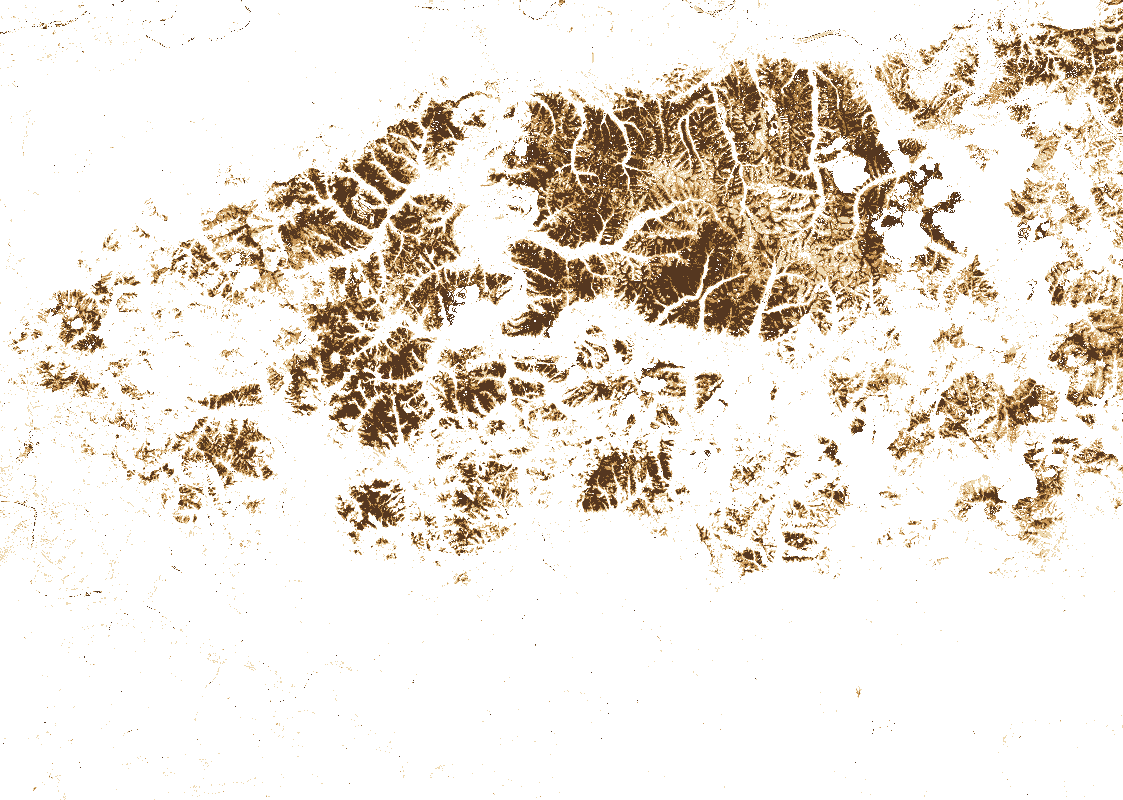
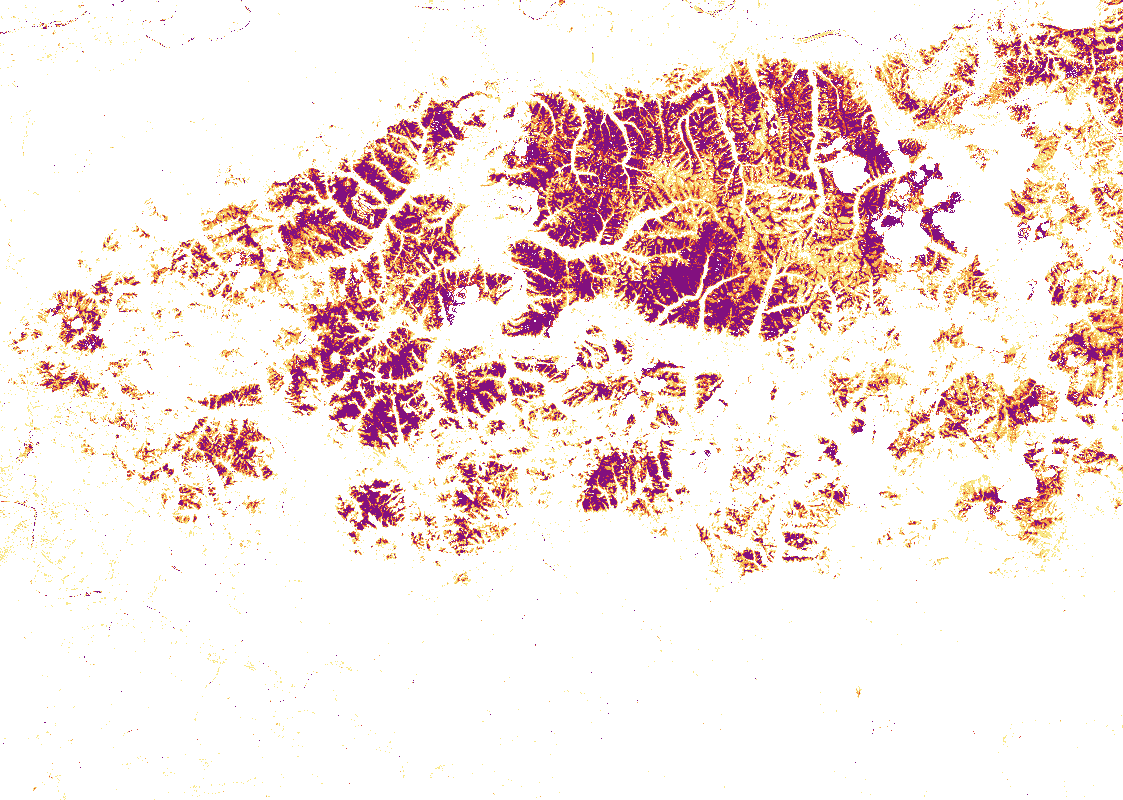
지도 오버레이 색을 원격탐사 관행 색상표로 교체

diff --git a/app/web/dashboard.js b/app/web/dashboard.js
@@ -8,7 +8,7 @@
   const SRC = { OBSERVED: "실측", MODEL: "계산", RULE: "규칙", ASSUMPTION: "가정", FORECAST: "예보" };
   const OV_LABEL = { dnbr: "피해등급", pre: "산불 전", post: "진화 직후", lst_before: "시공 전 온도", lst_after: "시공 후 온도", lst_diff: "전후 차이", flood_before: "정비 전 침수", flood_after: "정비 후 침수", flood_change: "전후 비교", none: "없음" };
   const PAIRS = [["pre", "post", "산불 전", "진화 직후"], ["lst_before", "lst_after", "시공 전", "시공 후"], ["flood_before", "flood_after", "정비 전", "정비 후"]];
-  const SEV_COLORS = ["#e9cf9c", "#c48a3e", "#8a5a1e", "#4a2a12"];
+  const SEV_COLORS = ["#f7e26b", "#f29e2e", "#d7301f", "#7a0177"];
   // 지표 장부의 항목 이름. 키는 JSON(재현용)에 남고 화면에는 한글만 적는다
   const KEY_LABEL = {
     burned_forest_ha: "피해 산림 면적", control_ha: "대조지 면적", recovery_ratio_latest: "최근 회복률", did_effect_ndvi: "이중차분 효과(NDVI)", ci95_median_diff: "95% 신뢰구간", mde_ndvi: "검출가능최소효과(NDVI)", valid_pct_min: "유효 화소 비율(최소)",

diff --git a/app/server/verify_fire.py b/app/server/verify_fire.py
@@ -87,7 +87,7 @@ def refl(bands: dict[str, np.ndarray], pb: str) -> dict[str, np.ndarray]:
 def severity_png(cls: np.ndarray, rgb: np.ndarray | None, path: Path) -> None:
     """피해등급을 반투명 PNG로 저장(지도 오버레이)."""
     from PIL import Image
-    pal = {1: (233, 207, 156, 200), 2: (196, 138, 62, 215), 3: (138, 90, 30, 230), 4: (74, 42, 18, 240)}   # 등고선 갈색 계열(지형도 문법)
+    pal = {1: (247, 226, 107, 205), 2: (242, 158, 46, 220), 3: (215, 48, 31, 230), 4: (122, 1, 119, 240)}   # dNBR 관행: 노랑, 주황, 빨강, 자주
     h, w = cls.shape
     img = np.zeros((h, w, 4), dtype="uint8")
     for k, c in pal.items():
@@ -183,7 +183,7 @@ def run(project: dict, progress=lambda done, total, msg: None) -> dict:
         },
         "severity": severity, "series": series, "scenes": scenes, "failed": failed,
         "overlays": {"dnbr": f"/api/projects/{p['id']}/overlay/dnbr.png", "pre": f"/api/projects/{p['id']}/overlay/pre.png", "post": f"/api/projects/{p['id']}/overlay/post.png", "bounds": bbox,
-                     "legend": {"dnbr": {"label": "피해등급", "type": "classes", "query": "dnbr", "items": [{"c": "#e9cf9c", "t": "경"}, {"c": "#c48a3e", "t": "중"}, {"c": "#8a5a1e", "t": "중강"}, {"c": "#4a2a12", "t": "강"}], "note": "dNBR 등급, Key & Benson 2006"},
+                     "legend": {"dnbr": {"label": "피해등급", "type": "classes", "query": "dnbr", "items": [{"c": "#f7e26b", "t": "경"}, {"c": "#f29e2e", "t": "중"}, {"c": "#d7301f", "t": "중강"}, {"c": "#7a0177", "t": "강"}], "note": "dNBR 등급, Key & Benson 2006"},
                                 "pre": {"label": "산불 전", "type": "text", "text": f"Sentinel-2 진색 합성 {next((x['date'] for x in scenes if x['label'] == 'pre'), '')}"},
                                 "post": {"label": "진화 직후", "type": "text", "text": f"Sentinel-2 진색 합성 {next((x['date'] for x in scenes if x['label'] == 'post'), '')}"}}},
         "verdict": _verdict(last_ratio, did["effect"], mde, ci),

diff --git a/app/server/overlay_png.py b/app/server/overlay_png.py
@@ -1,6 +1,6 @@
 """지도 오버레이 PNG 생성 — 연속값(지표면온도)·분류값(침수 범위) 공용.
 
-색은 지형도 문법을 따른다: 온도는 갈색 계열 순차, 전후 차이는 청(냉각)–적(가열) 발산, 침수는 청색 계열.
+색은 원격탐사 관행을 따른다: 온도는 순차형 열 색상표(inferno), 전후 차이는 RdBu 발산형(청 냉각, 적 가열), 침수는 청색.
 NaN은 완전 투명.
 """
 from __future__ import annotations
@@ -9,8 +9,8 @@ from pathlib import Path
 
 import numpy as np
 
-WARM = [(252, 245, 226), (240, 214, 160), (222, 170, 96), (190, 120, 50), (140, 76, 28), (84, 40, 14)]          # 낮음 → 높음
-DIVERGE = [(26, 82, 150), (120, 160, 205), (245, 243, 236), (222, 150, 110), (160, 44, 30)]                       # 음(−) → 양(+)
+WARM = [(0, 0, 4), (66, 10, 104), (147, 38, 103), (221, 81, 58), (252, 165, 10), (252, 255, 164)]               # inferno, 낮음에서 높음
+DIVERGE = [(33, 102, 172), (103, 169, 207), (247, 247, 247), (239, 138, 98), (178, 24, 43)]                       # RdBu_r, 음에서 양
 
 
 def _ramp(vals: np.ndarray, stops: list[tuple[int, int, int]]) -> np.ndarray:
